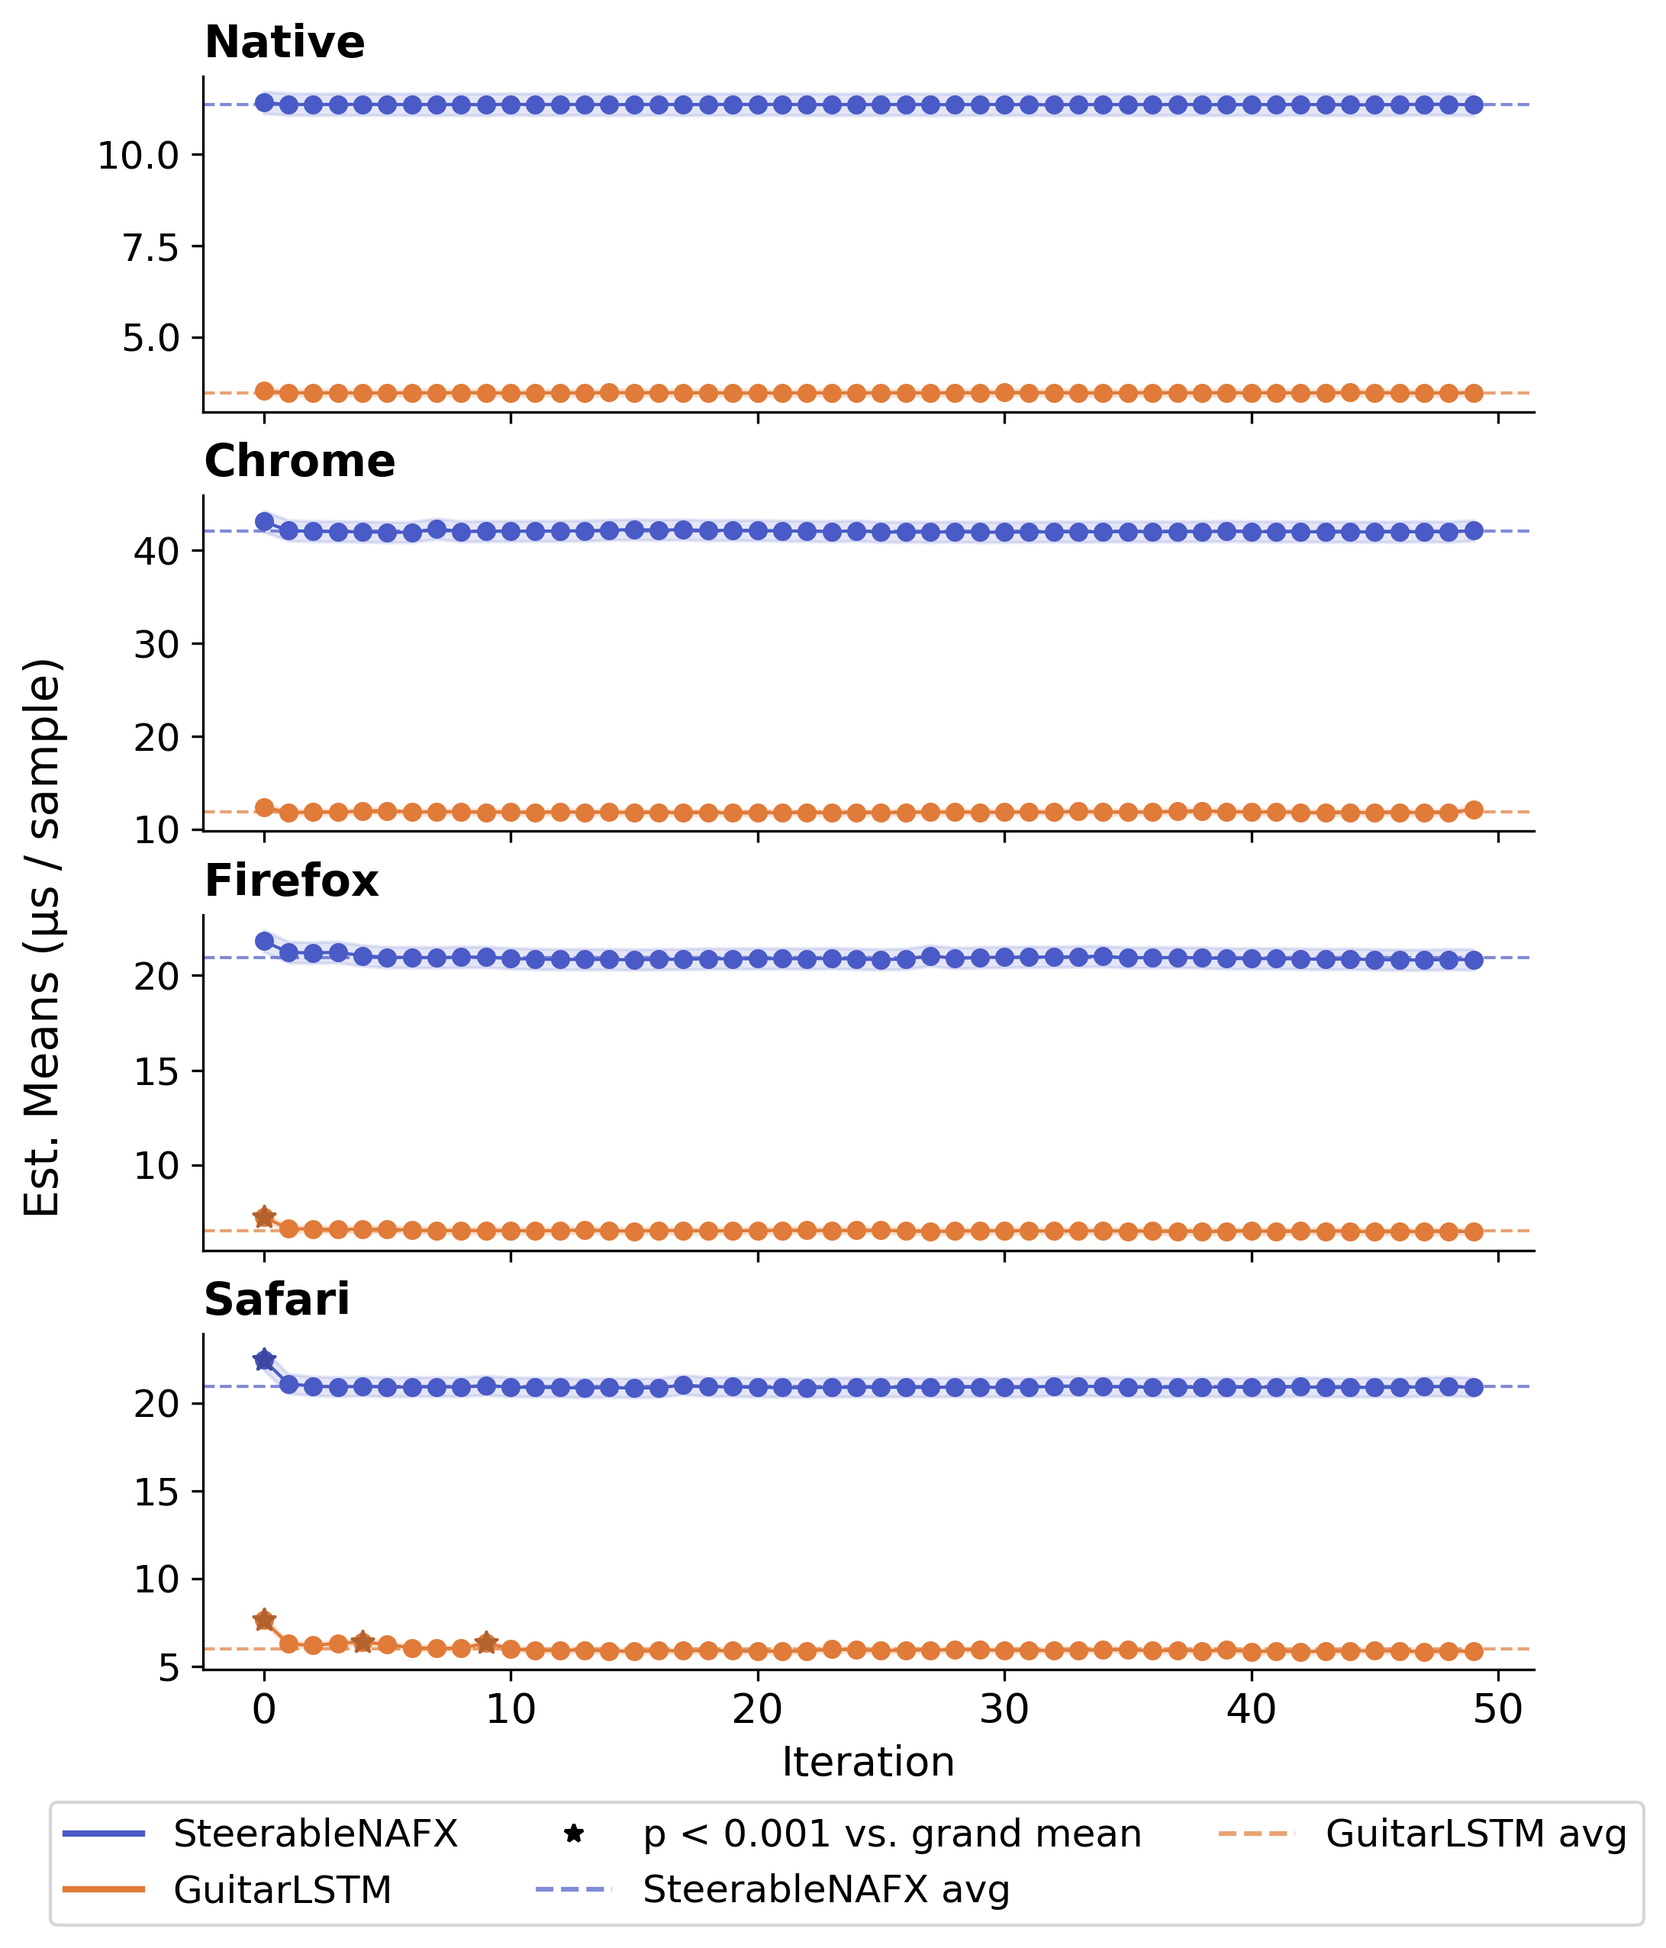
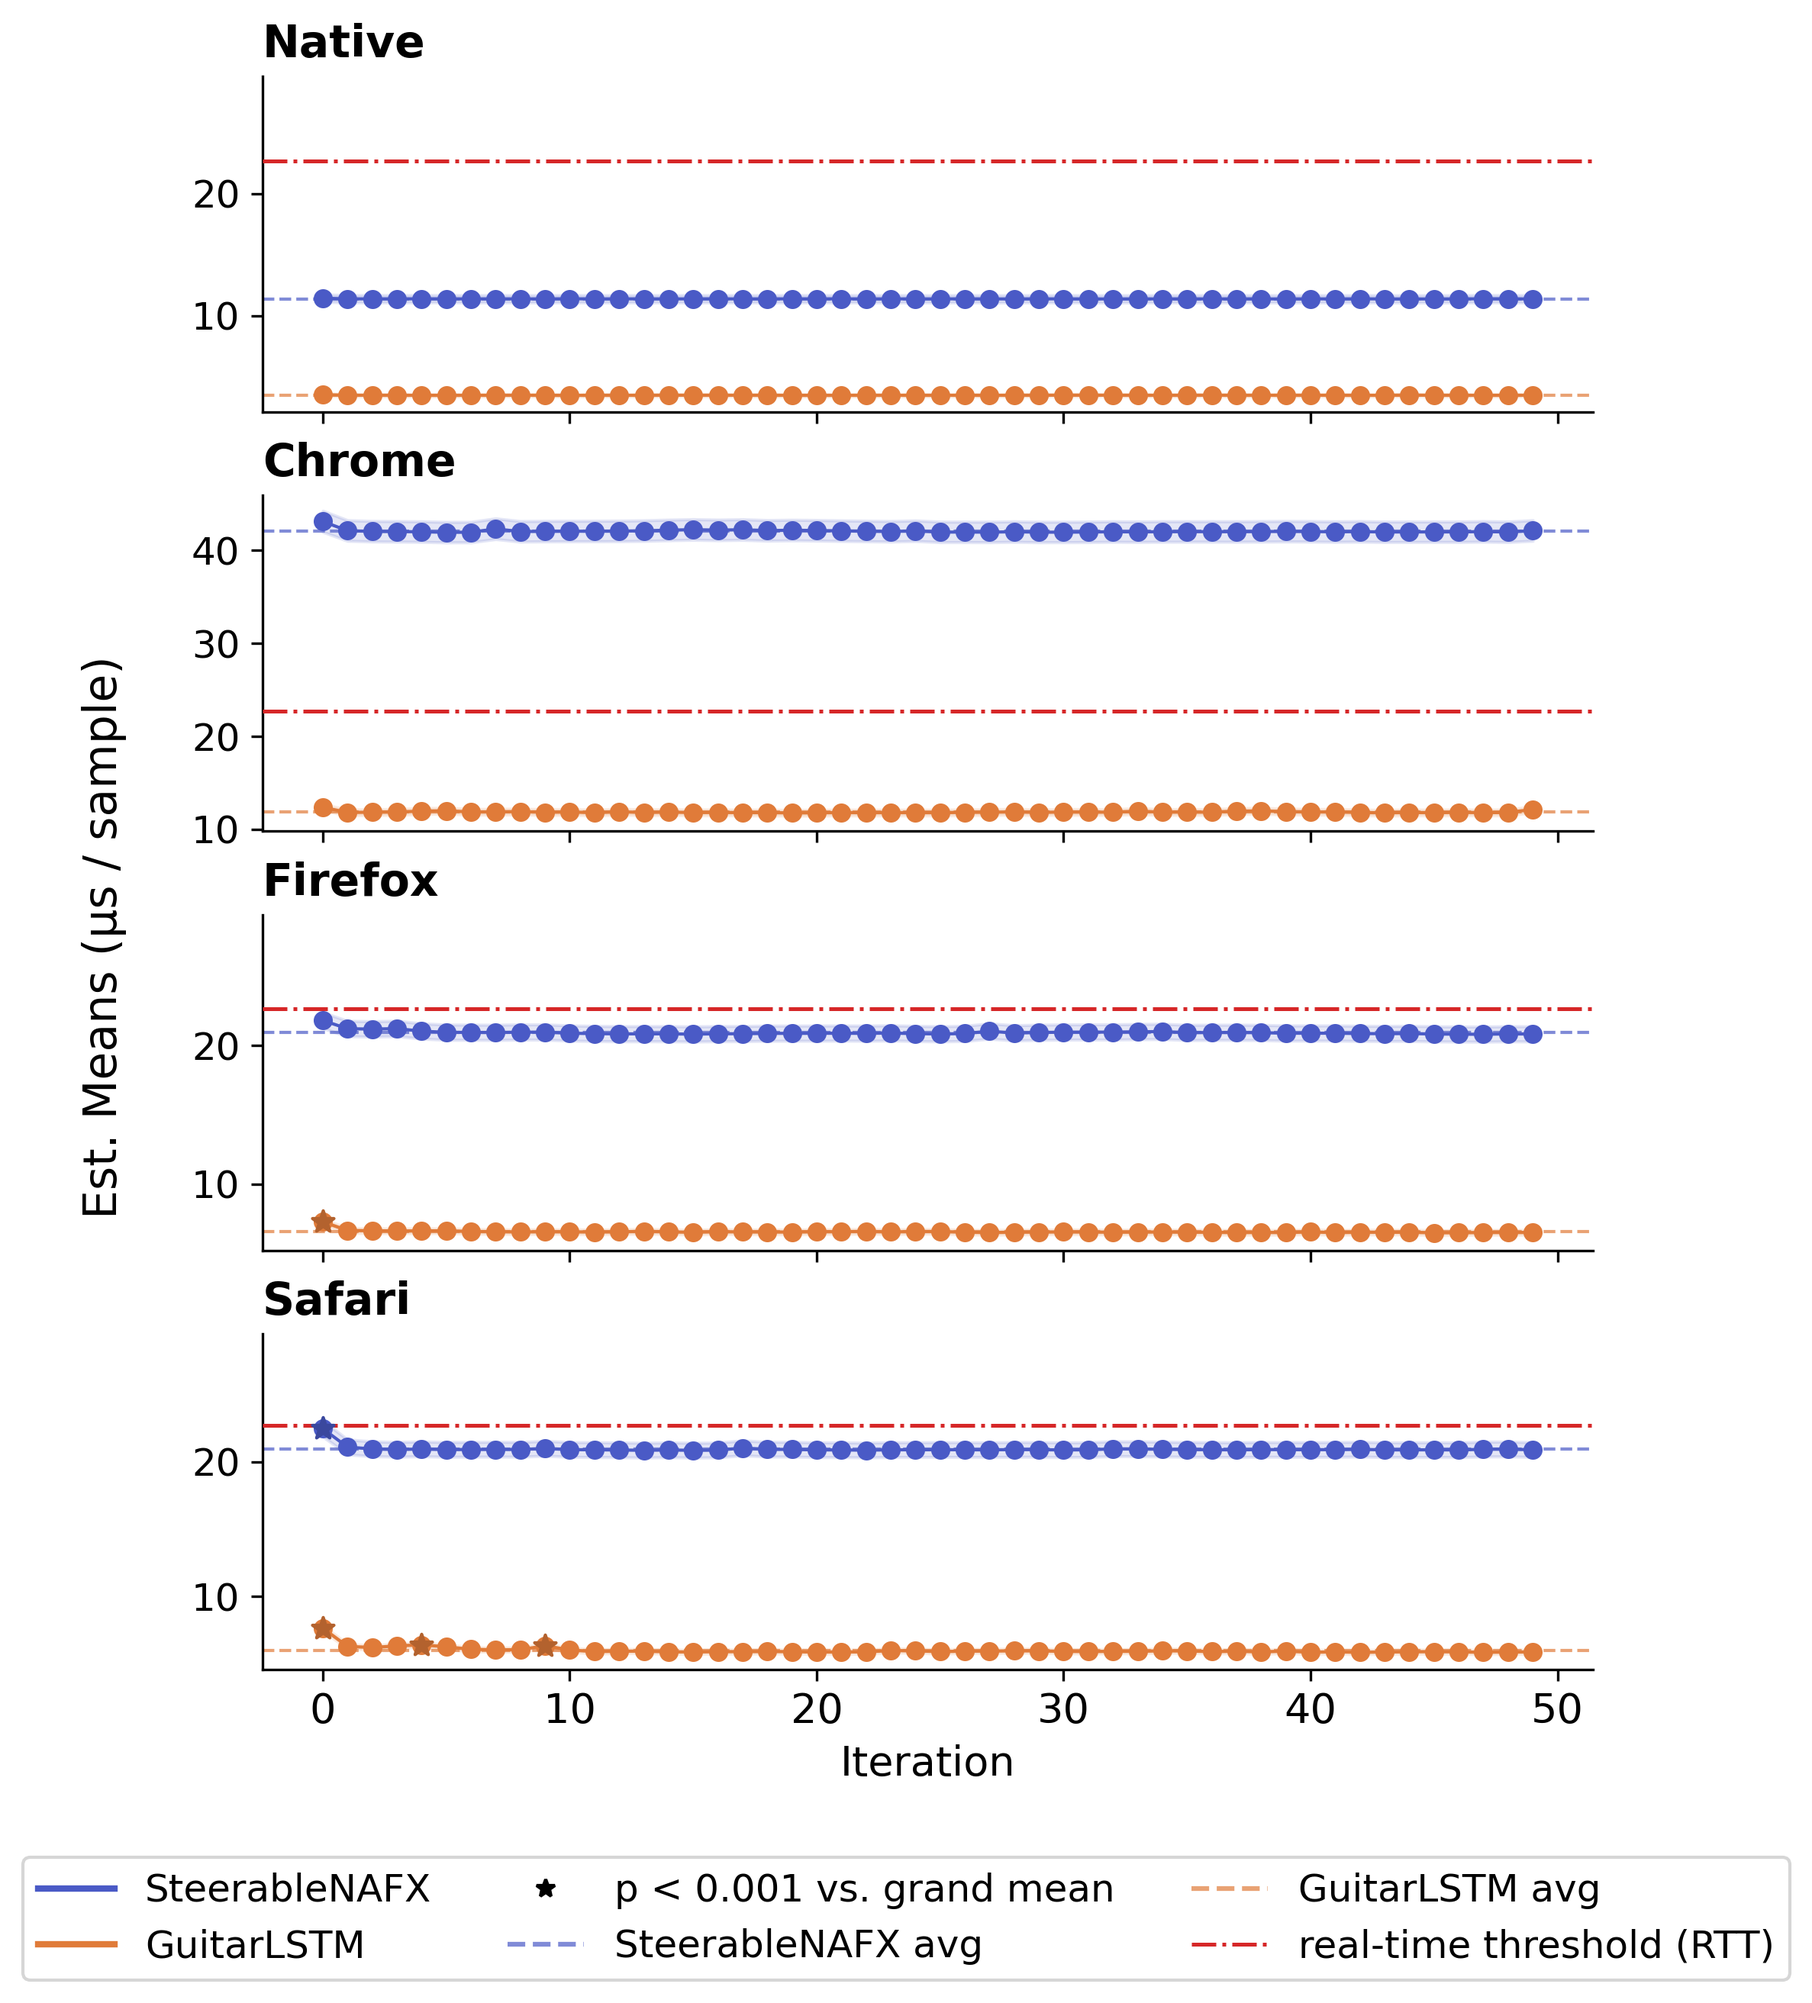
Plot improvements

diff --git a/anira-web-r/source/commands/plots.py b/anira-web-r/source/commands/plots.py
@@ -40,6 +40,26 @@ PP_HATCHES = {"wasm": "", "js": "///"}
 
 Y_LABEL = "Est. Means (µs / sample)"
 
+# Real-time threshold: available processing time per sample at 44.1 kHz.
+# RpS is per-sample, so one horizontal line is valid for every buffer size.
+# Only drawn in ONNX panels — bypass estimates lie >1 order of magnitude below.
+RTT_US_PER_SAMPLE = 1e6 / 44100  # ≈ 22.68 µs/sample
+RTT_COLOR = "#d62728"
+RTT_LABEL = "real-time threshold (RTT)"
+
+
+def _draw_rtt(ax):
+    ax.axhline(RTT_US_PER_SAMPLE, ls="-.", color=RTT_COLOR, lw=1.2, zorder=4)
+    # Invisible sentinel that participates in autoscale, so the line keeps
+    # some headroom instead of grazing the top edge (and the panel letter)
+    # when all data lies below the threshold. No effect on panels whose
+    # data already exceeds it.
+    ax.plot([0], [RTT_US_PER_SAMPLE * 1.25], ls="none", marker="")
+
+
+def _rtt_handle():
+    return Line2D([0], [0], color=RTT_COLOR, lw=1.2, ls="-.", label=RTT_LABEL)
+
 
 def _apply_style():
     plt.rcParams.update(
@@ -126,6 +146,9 @@ def plot_rq1_environment(results_dir, out_dir):
                 edgecolor="black",
                 linewidth=0.5,
             )
+            if run == "onnx":
+                _draw_rtt(ax)
+
             ax.set_xticks(x)
             ax.set_xticklabels(envs, rotation=45, ha="right")
             letter = chr(97 + row_idx * n_cols + col_idx)
@@ -139,6 +162,12 @@ def plot_rq1_environment(results_dir, out_dir):
                     MODEL_TITLES.get(model, model), fontweight="bold", fontsize=13
                 )
 
+    fig.legend(
+        handles=[_rtt_handle()],
+        loc="lower center",
+        bbox_to_anchor=(0.5, -0.06),
+        frameon=True,
+    )
     fig.supylabel(Y_LABEL)
     _save(fig, out_dir, "rq1_environment.png")
 
@@ -196,6 +225,7 @@ def plot_rq2_iterations(results_dir, out_dir):
                     zorder=5,
                 )
 
+        _draw_rtt(ax)
         ax.set_title(env, loc="left", fontweight="bold")
 
     axes[-1].set_xlabel("Iteration")
@@ -212,12 +242,12 @@ def plot_rq2_iterations(results_dir, out_dir):
     star_handle = Line2D(
         [0], [0], marker="*", color="black", lw=0, label=f'p < {SIGNIFICANCE_THRESHOLD} vs. grand mean'
     )
-    legend_handles = solid_handles + [star_handle] + avg_handles
+    legend_handles = solid_handles + [star_handle] + avg_handles + [_rtt_handle()]
     fig.legend(
         handles=legend_handles,
         loc="lower center",
         ncol=len(models) + 1,
-        bbox_to_anchor=(0.5, -0.05),
+        bbox_to_anchor=(0.5, -0.08),
         frameon=True,
     )
     fig.supylabel(Y_LABEL, x=0.02)
@@ -298,6 +328,12 @@ def plot_rq3_overhead(results_dir, out_dir):
                         linewidth=0.5,
                     )
 
+                # Only where the data approaches the threshold (violations
+                # occur solely in ONNX SteerableNAFX); elsewhere the line
+                # would double the y-range and flatten the bar differences.
+                if group_key == "onnx" and model == "steerable-nafx":
+                    _draw_rtt(ax)
+
                 letter = chr(97 + row_idx * n_plot_cols + global_col)
                 ax.text(
                     0.03,
@@ -351,9 +387,9 @@ def plot_rq3_overhead(results_dir, out_dir):
         for pp in pp_order
     ]
     fig.legend(
-        handles=backend_handles + pp_handles,
+        handles=backend_handles + pp_handles + [_rtt_handle()],
         loc="lower center",
-        ncol=len(backend_handles) + len(pp_handles),
+        ncol=len(backend_handles) + len(pp_handles) + 1,
         bbox_to_anchor=(0.5, -0.01),
         frameon=True,
         fontsize=11,
@@ -377,3 +413,21 @@ if __name__ == "__main__":
     plot_rq1_environment(results_dir, out_dir)
     plot_rq2_iterations(results_dir, out_dir)
     plot_rq3_overhead(results_dir, out_dir)
+
+    # Mirror the PNGs into the paper's figures directory, same convention as
+    # tables.py — but only if it exists (it doesn't in the supplementary bundle).
+    web_r_root = os.path.dirname(os.path.dirname(os.path.abspath(results_dir)))
+    monorepo_root = os.path.dirname(web_r_root)
+    paper_figures = os.path.join(monorepo_root, "anira-paper-latex", "figures")
+    if os.path.isdir(paper_figures):
+        import shutil
+
+        for png in (
+            "rq1_environment.png",
+            "rq2_iteration_effects.png",
+            "rq3_overhead.png",
+        ):
+            src = os.path.join(out_dir, png)
+            if os.path.exists(src):
+                shutil.copy2(src, os.path.join(paper_figures, png))
+                print(f"→ copied {png} to paper figures")
